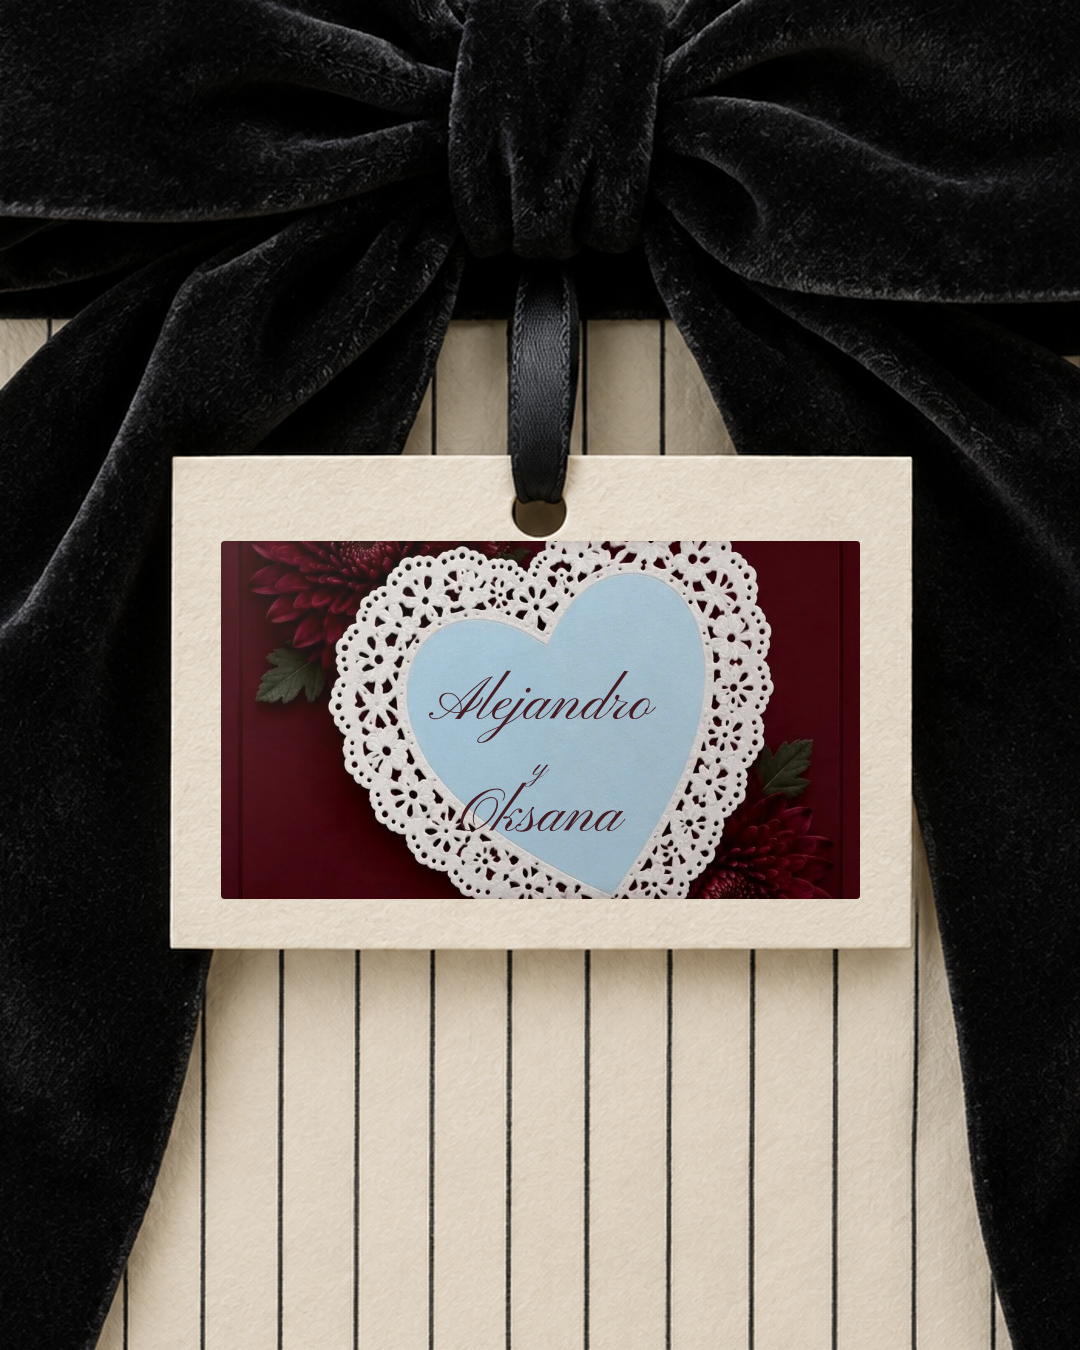
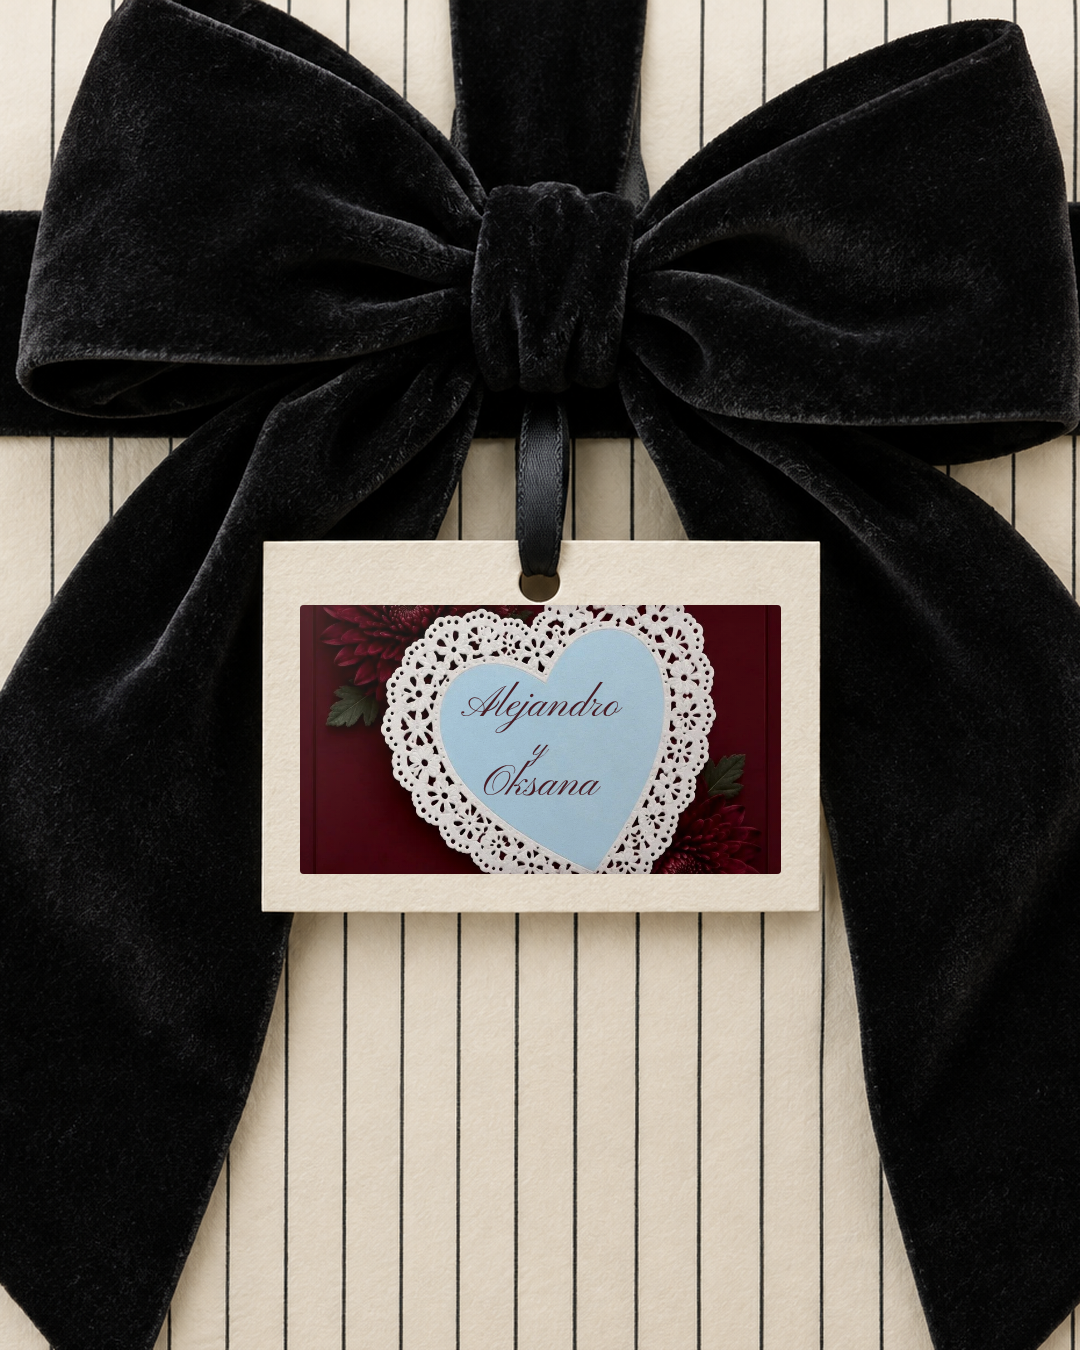
Show full velvet bows in carousel
Claude-Session: https://claude.ai/code/session_01EgrmTqtpGfwNVupVBLTceP

diff --git a/disenos/etiquetas/velvet-invitaciones.html b/disenos/etiquetas/velvet-invitaciones.html
@@ -12,16 +12,16 @@
 .c{position:absolute;display:flex;flex-direction:column;align-items:center;justify-content:center;text-align:center;color:#5a1018;mix-blend-mode:multiply}
 .ov{position:absolute;left:0;right:0;text-align:center}
 </style></head><body><svg width="0" height="0" style="position:absolute"><filter id="pg"><feTurbulence type="fractalNoise" baseFrequency=".9" numOctaves="3" seed="7"/><feColorMatrix type="saturate" values="0"/><feComponentTransfer><feFuncA type="linear" slope=".5"/></feComponentTransfer></filter></svg>
-<div class="s" id="v1" style="background-image:url(fotos/velz1.png)"><div class="art" style="left:221px;top:541px;width:639px;height:358px"><img src="fotos/art-corazon.jpg"><div class="ov" style="top:38%;font-family:Pinyon Script;font-size:62px;color:#4a1d26;line-height:.9">Alejandro<br><span style="font-size:31px">y</span><br>Oksana</div><svg class="grain" width="100%" height="100%"><rect width="100%" height="100%" filter="url(#pg)"/></svg><div class="tex" style="background:#e8dfd2"></div></div></div>
-<div class="s" id="v2" style="background-image:url(fotos/velz2.png)"><div class="art" style="left:317px;top:388px;width:445px;height:861px"><img src="fotos/art-copa.jpg"><svg class="grain" width="100%" height="100%"><rect width="100%" height="100%" filter="url(#pg)"/></svg><div class="tex" style="background:#e8dfd2"></div></div></div>
-<div class="s" id="v3" style="background-image:url(fotos/velz3.png)"><div class="art" style="left:344px;top:412px;width:394px;height:840px"><img src="fotos/art-anahi.jpg"><svg class="grain" width="100%" height="100%"><rect width="100%" height="100%" filter="url(#pg)"/></svg><div class="tex" style="background:#e8dfd2"></div></div></div>
-<div class="s" id="v4" style="background-image:url(fotos/velz4.png)"><div class="art" style="left:331px;top:407px;width:418px;height:844px"><img src="fotos/art-geraldine.jpg" style="object-fit:contain;background:#6e1a28"><svg class="grain" width="100%" height="100%"><rect width="100%" height="100%" filter="url(#pg)"/></svg><div class="tex" style="background:#e8dfd2"></div></div></div>
-<div class="s" id="v5" style="background-image:url(fotos/velz5.png)"><div class="art" style="left:329px;top:395px;width:424px;height:855px"><img src="fotos/art-espejo.jpg"><svg class="grain" width="100%" height="100%"><rect width="100%" height="100%" filter="url(#pg)"/></svg><div class="tex" style="background:#e8dfd2"></div></div></div>
-<div class="s" id="v6" style="background-image:url(fotos/velz6.png)"><div class="c" style="left:362px;top:456px;width:358px;height:778px">
-<div style="font-family:Pinyon Script;font-size:96px;line-height:1">Invitto</div>
-<div style="font:400 15px 'Bodoni Moda';letter-spacing:.36em;margin-top:18px">INVITACIONES DIGITALES</div>
-<div style="width:60px;height:1px;background:#5a1018;margin:44px 0"></div>
-<div style="font:400 52px 'Bodoni Moda';line-height:1.05">¿hacemos<br><i>la tuya?</i></div>
-<div style="font:italic 400 22px 'Bodoni Moda';margin-top:30px;line-height:1.5">XV · bodas<br>cumpleaños · empresas</div>
-<div style="font:400 15px 'Bodoni Moda';letter-spacing:.3em;margin-top:44px;border-top:1px solid #5a1018;border-bottom:1px solid #5a1018;padding:14px 8px">MÁNDANOS DM →</div></div></div>
+<div class="s" id="v1" style="background-image:url(fotos/velw1.png)"><div class="art" style="left:300px;top:605px;width:481px;height:269px"><img src="fotos/art-corazon.jpg"><div class="ov" style="top:30%;font-family:Pinyon Script;font-size:44px;color:#4a1d26;line-height:.9">Alejandro<br><span style="font-size:31px">y</span><br>Oksana</div><svg class="grain" width="100%" height="100%"><rect width="100%" height="100%" filter="url(#pg)"/></svg><div class="tex" style="background:#e8dfd2"></div></div></div>
+<div class="s" id="v2" style="background-image:url(fotos/velw2.png)"><div class="art" style="left:358px;top:583px;width:364px;height:704px"><img src="fotos/art-copa.jpg"><svg class="grain" width="100%" height="100%"><rect width="100%" height="100%" filter="url(#pg)"/></svg><div class="tex" style="background:#e8dfd2"></div></div></div>
+<div class="s" id="v3" style="background-image:url(fotos/velw3.png)"><div class="art" style="left:380px;top:585px;width:322px;height:686px"><img src="fotos/art-anahi.jpg"><svg class="grain" width="100%" height="100%"><rect width="100%" height="100%" filter="url(#pg)"/></svg><div class="tex" style="background:#e8dfd2"></div></div></div>
+<div class="s" id="v4" style="background-image:url(fotos/velw4.png)"><div class="art" style="left:369px;top:601px;width:341px;height:690px"><img src="fotos/art-geraldine.jpg" style="object-fit:contain;background:#6e1a28"><svg class="grain" width="100%" height="100%"><rect width="100%" height="100%" filter="url(#pg)"/></svg><div class="tex" style="background:#e8dfd2"></div></div></div>
+<div class="s" id="v5" style="background-image:url(fotos/velw5.png)"><div class="art" style="left:367px;top:622px;width:346px;height:699px"><img src="fotos/art-espejo.jpg"><svg class="grain" width="100%" height="100%"><rect width="100%" height="100%" filter="url(#pg)"/></svg><div class="tex" style="background:#e8dfd2"></div></div></div>
+<div class="s" id="v6" style="background-image:url(fotos/velw6.png)"><div class="c" style="left:394px;top:600px;width:293px;height:636px">
+<div style="font-family:Pinyon Script;font-size:79px;line-height:1">Invitto</div>
+<div style="font:400 12px 'Bodoni Moda';letter-spacing:.36em;margin-top:18px">INVITACIONES DIGITALES</div>
+<div style="width:60px;height:1px;background:#5a1018;margin:30px 0"></div>
+<div style="font:400 43px 'Bodoni Moda';line-height:1.05">¿hacemos<br><i>la tuya?</i></div>
+<div style="font:italic 400 18px 'Bodoni Moda';margin-top:30px;line-height:1.5">XV · bodas<br>cumpleaños · empresas</div>
+<div style="font:400 12px 'Bodoni Moda';letter-spacing:.3em;margin-top:44px;border-top:1px solid #5a1018;border-bottom:1px solid #5a1018;padding:14px 8px">MÁNDANOS DM →</div></div></div>
 </body></html>
